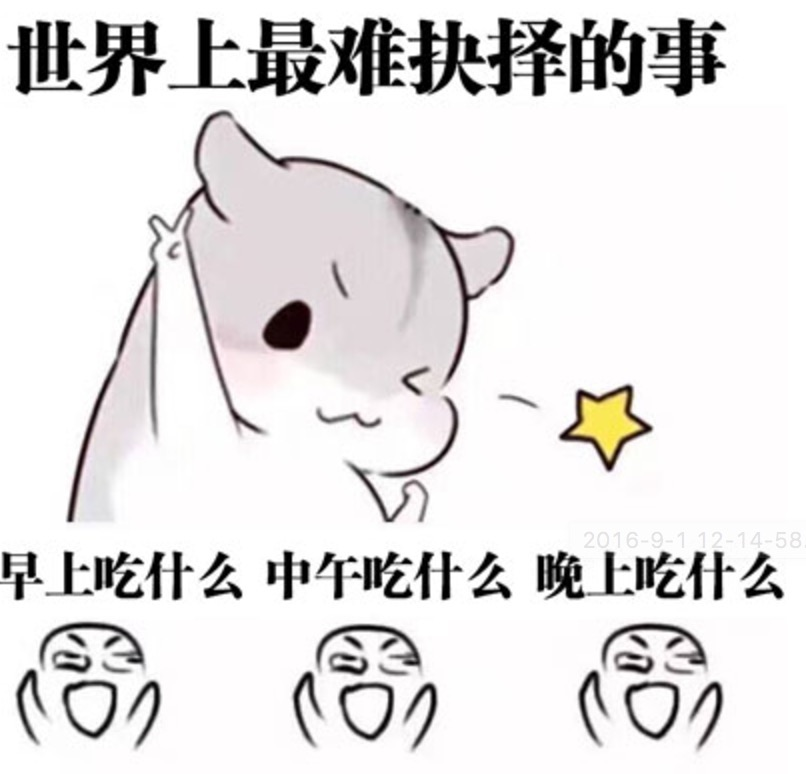
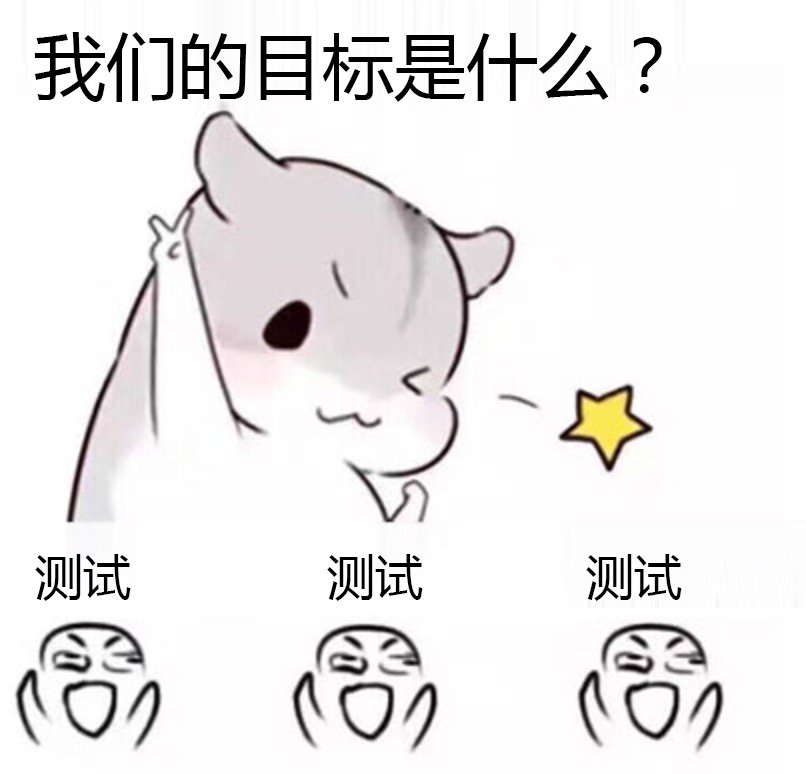
update ppt

Changed region(s): [[0.0, 0.0, 0.8995, 0.155], [0.0, 0.6822, 0.9926, 0.7752]]

diff --git a/main.md b/main.md
@@ -1,12 +1,12 @@
-title: 渐进式的测试
+title: 实用主义的测试
 speaker: 曾凯
 url: https://github.com/Riokai
-transition: slide
+transition: slide2
 files: /css/style.css
 theme: moon
 
 [slide]
-#《渐进式的测试》
+# 实用主义的测试
 
 <small class="speaker">饿了么-曾凯</small>
 
@@ -14,55 +14,66 @@ theme: moon
 # 源起
 
 ## How deep are your unit tests?
+## 单元测试需要做的多细？
 
 [slide]
+# 来自社区里面的声音
+
 * 追求高代码覆盖率
 * 完全不写测试
-* 渐进式的测试
+* 实用主义的测试
 
 [slide]
 
 ## 为什么不应该追求高代码覆盖率
 ----
 * life is short，code is long {:&.rollIn}
-* 现实项目都是有开发周期
+* 影响开发进度
 
 ![Picture](/img/cover.png)
 
 [slide]
-## 为什么应该写测试
+## 实用主义的测试
 
 ### 传统测试的好处
 
-* 提高维护性 {:&.rollIn}
+* 提高维护性
 * 代码解耦
 * 减少bug
 * ...
 
 [slide]
 
-#### 但是...
+### 现实的情况是...
 
 [slide]
 
-### 维护并不一定是自己
+### 维护项目的人并不一定还是我
 
 ![Picture](/img/doge.png)
 
 [slide]
 
-# 测试可以提高开发速度
+# 单元测试可以提高开发速度
 
 [slide]
 
-# Show Time
+# Demo
 
 [slide]
 
 # 总结
 
-* 对那些有意义的错误做测试 {:&.rollIn}
+* 对那些有意义的错误做测试
 * 一眼能看出结果的代码不值得去测试
 * 用好测试能提高开发效率
 
 [slide]
+
+# Q&A
+
+[slide]
+
+# THANK YOU.
+
+2016.12.1
